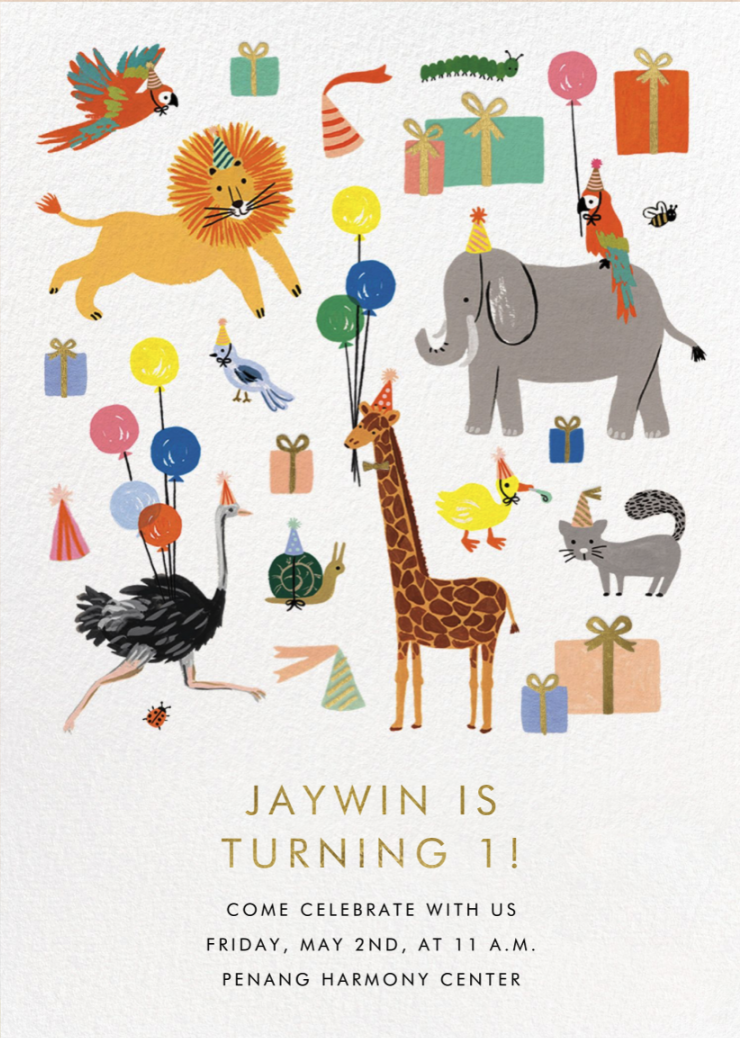
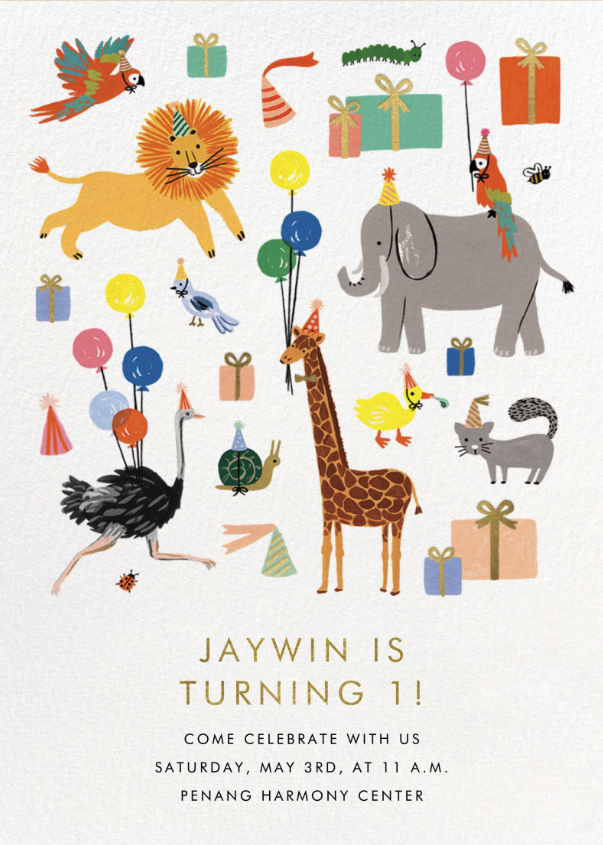
date fix

diff --git a/index.html b/index.html
@@ -498,7 +498,7 @@
                 
                 <div class="info-item">
                     <h3 class="info-title">Date</h3>
-                    <p class="info-content">Friday, May 2</p>
+                    <p class="info-content">Saturday, May 3rd</p>
                     <p class="info-content">11:00AM +08</p>
                 </div>
                 
